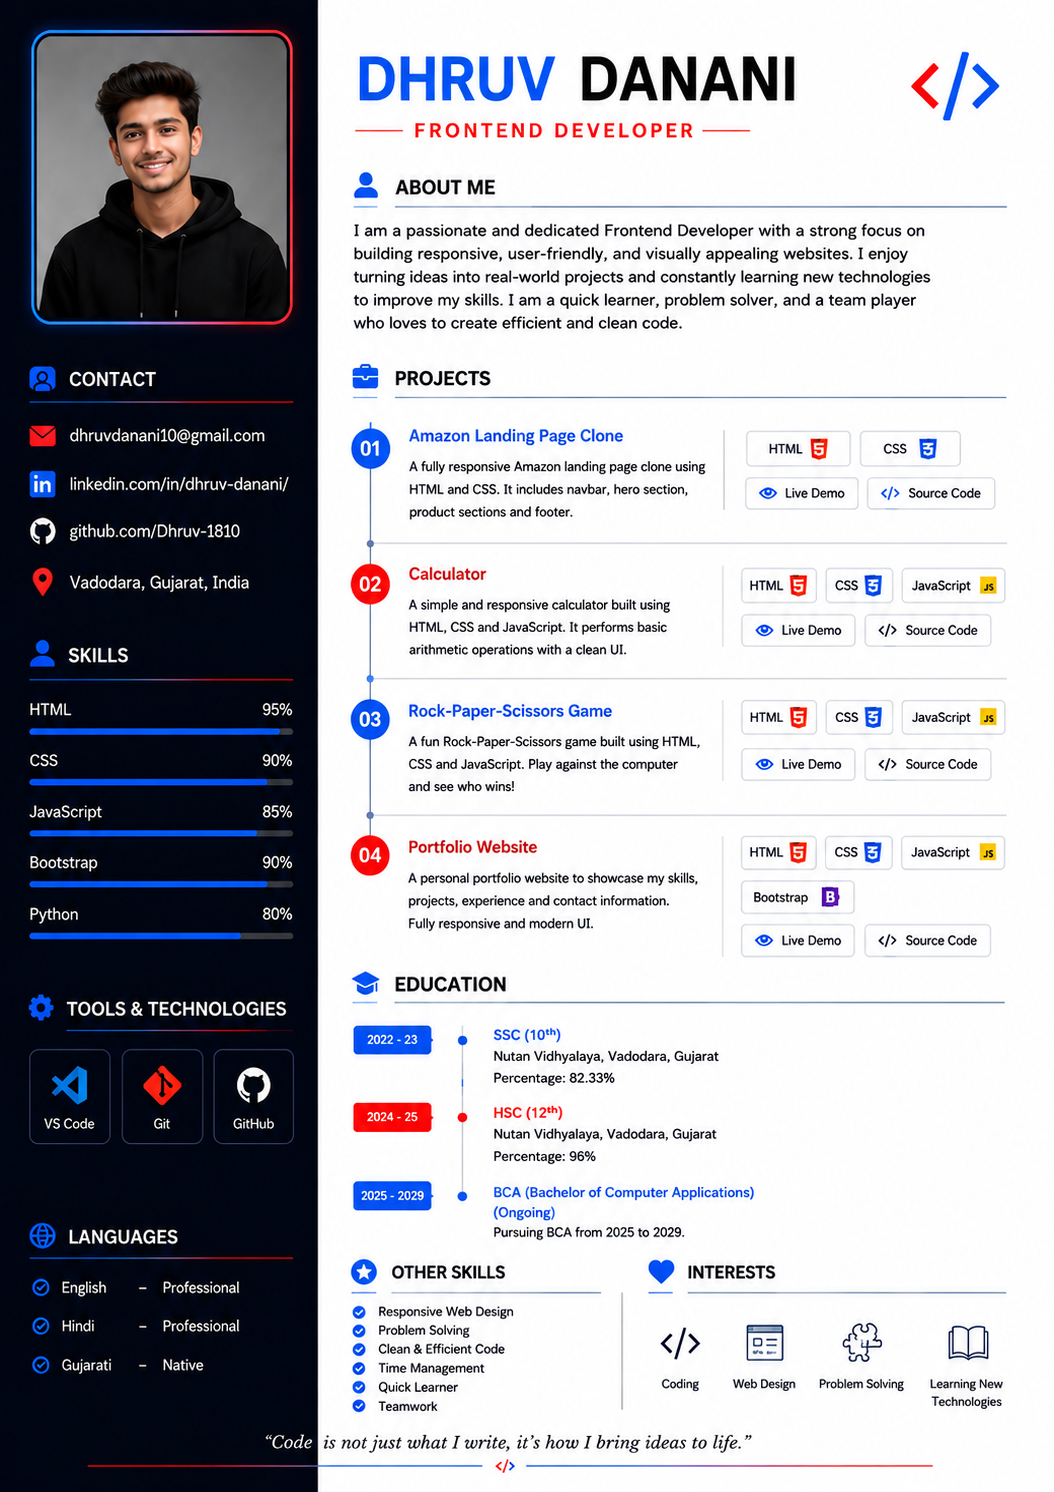
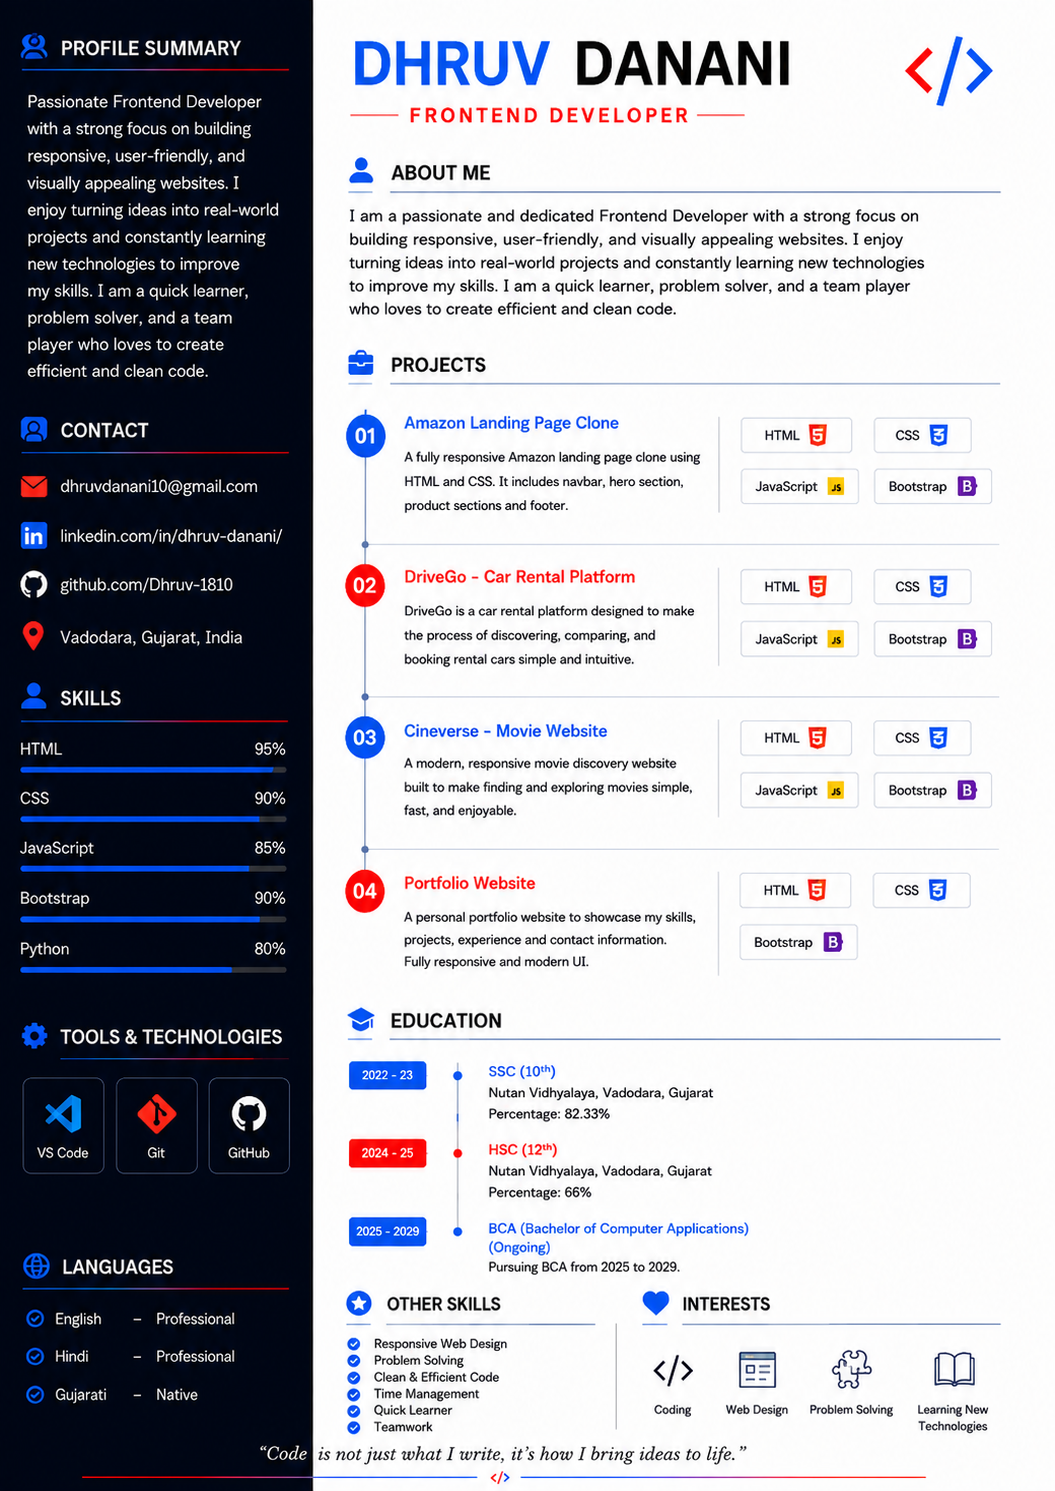
Update portfolio

Changed region(s): [[0.0, 0.0, 0.9412, 1.0], [0.6983, 0.3702, 0.9715, 0.6479], [0.8501, 0.0309, 0.9412, 0.0926]]

diff --git a/index.html b/index.html
@@ -550,10 +550,7 @@
                             It includes a modern navigation bar, hero section,
                             shopping categories, product cards and footer.
                         </p>
-                        <a href="#" class="view-project">
-                            View Project
-                            <i class="fa-solid fa-arrow-right"></i>
-                        </a>
+                        
                     </div>
 
                     <div class="project-right">
@@ -564,17 +561,6 @@
                         <div class="tech-stack">
                             <span>HTML</span>
                             <span>CSS</span>
-                        </div>
-                        <div class="project-buttons">
-                            <a href="#" class="github-btn">
-                                <i class="fa-brands fa-github"></i>
-                                GitHub
-                            </a>
-
-                            <a href="#" class="live-btn">
-                                <i class="fa-solid fa-eye"></i>
-                                Live Demo
-                            </a>
                         </div>
 
                     </div>
@@ -589,18 +575,16 @@
                             02
                         </div>
                         <div class="project-icon">
-                            <i class="fa-solid fa-calculator"></i>
+                            <i class="fa-solid fa-film"></i>
                         </div>
                     </div>
 
                     <div class="project-content">
-                        <h3>Calculator</h3>
+                        <h3>Cineverse</h3>
                         <p>
-                            A fully functional calculator developed using HTML,
-                            CSS and JavaScript.
-                            It performs all basic arithmetic operations with a clean UI.
+                            A modern, responsive movie discovery website built to make finding and exploring movies simple, fast, and enjoyable.
                         </p>
-                        <a href="#" class="view-project">
+                        <a href="https://cineverse-world.netlify.app/" class="view-project">
                             View Project
                             <i class="fa-solid fa-arrow-right"></i>
                         </a>
@@ -615,14 +599,15 @@
                             <span>HTML</span>
                             <span>CSS</span>
                             <span>JavaScript</span>
+                            <span>Bootstrap</span>
                         </div>
 
                         <div class="project-buttons">
-                            <a href="#" class="github-btn">
+                            <a href="https://github.com/Dhruv-1810/CineVerse" class="github-btn">
                                 <i class="fa-brands fa-github"></i>
                                 GitHub
                             </a>
-                            <a href="#" class="live-btn">
+                            <a href="https://cineverse-world.netlify.app/" class="live-btn">
                                 <i class="fa-solid fa-eye"></i>
                                 Live Demo
                             </a>
@@ -640,18 +625,17 @@
                             03
                         </div>
                         <div class="project-icon">
-                            <i class="fa-solid fa-hand-rock"></i>
+                            <i class="fa-solid fa-car"></i>
                         </div>
                     </div>
 
                     <div class="project-content">
-                        <h3>Rock Paper Scissors Game</h3>
+                        <h3>DriveGo - Car Rental Platform</h3>
                         <p>
-                            An interactive Rock-Paper-Scissors game built using
-                            HTML, CSS and JavaScript.
-                            Users play against the computer with real-time score updates.
+                            DriveGo is a car rental platform designed to make 
+                            the process of discovering, comparing, and booking rental cars simple and intuitive.
                         </p>
-                        <a href="#" class="view-project">
+                        <a href="https://drivego-rentals.netlify.app/" class="view-project">
                             View Project
                             <i class="fa-solid fa-arrow-right"></i>
                         </a>
@@ -666,14 +650,15 @@
                             <span>HTML</span>
                             <span>CSS</span>
                             <span>JavaScript</span>
+                            <span>Bootstrap</span>
                         </div>
 
                         <div class="project-buttons">
-                            <a href="#" class="github-btn">
+                            <a href="https://github.com/Dhruv-1810/DriveGo-Car-Rental" class="github-btn">
                                 <i class="fa-brands fa-github"></i>
                                 GitHub
                             </a>
-                            <a href="#" class="live-btn">
+                            <a href="https://drivego-rentals.netlify.app/" class="live-btn">
                                 <i class="fa-solid fa-eye"></i>
                                 Live Demo
                             </a>
@@ -787,6 +772,7 @@
 
                     </div>
 
+                    <!-- Form -->
                     <div class="col-12 col-lg-7">
 
                         <div class="contact-form">
